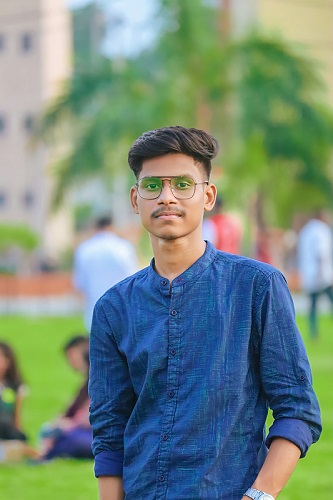
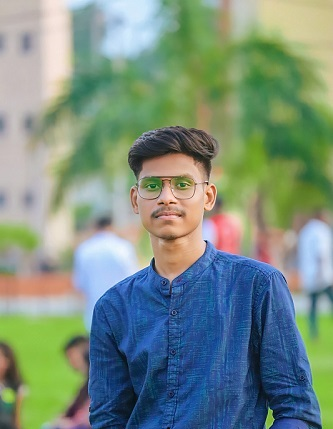
image change

diff --git a/index.html b/index.html
@@ -344,7 +344,7 @@
                 <div class="mb-6 lg:mb-0 lg:ml-60">
                     <div class="bg-white  rounded-lg shadow-lg">
                         <div class="relative block overflow-hidden bg-no-repeat bg-cover">
-                            <img src="sipun3.jpg" class="w-full rounded-t-lg" />
+                            <img src="sipun8.jpg" class="w-full rounded-t-lg" />
                             <a href="#">
                                 <div
                                     class="absolute top-0 right-0 bottom-0 left-0 w-full h-full overflow-hidden bg-fixed">
@@ -419,7 +419,7 @@
                 <div class="mb-6 lg:mb-0 lg:ml-[300px]">
                     <div class="bg-white block rounded-lg shadow-lg">
                         <div class="relative overflow-hidden bg-no-repeat bg-cover">
-                            <img src="akash2.jpg" class="w-full rounded-t-lg" />
+                            <img src="akash.jpg" class="w-full rounded-t-lg" />
                             <a href="#!">
                                 <div
                                     class="absolute top-0 right-0 bottom-0 left-0 w-full h-full overflow-hidden bg-fixed">
